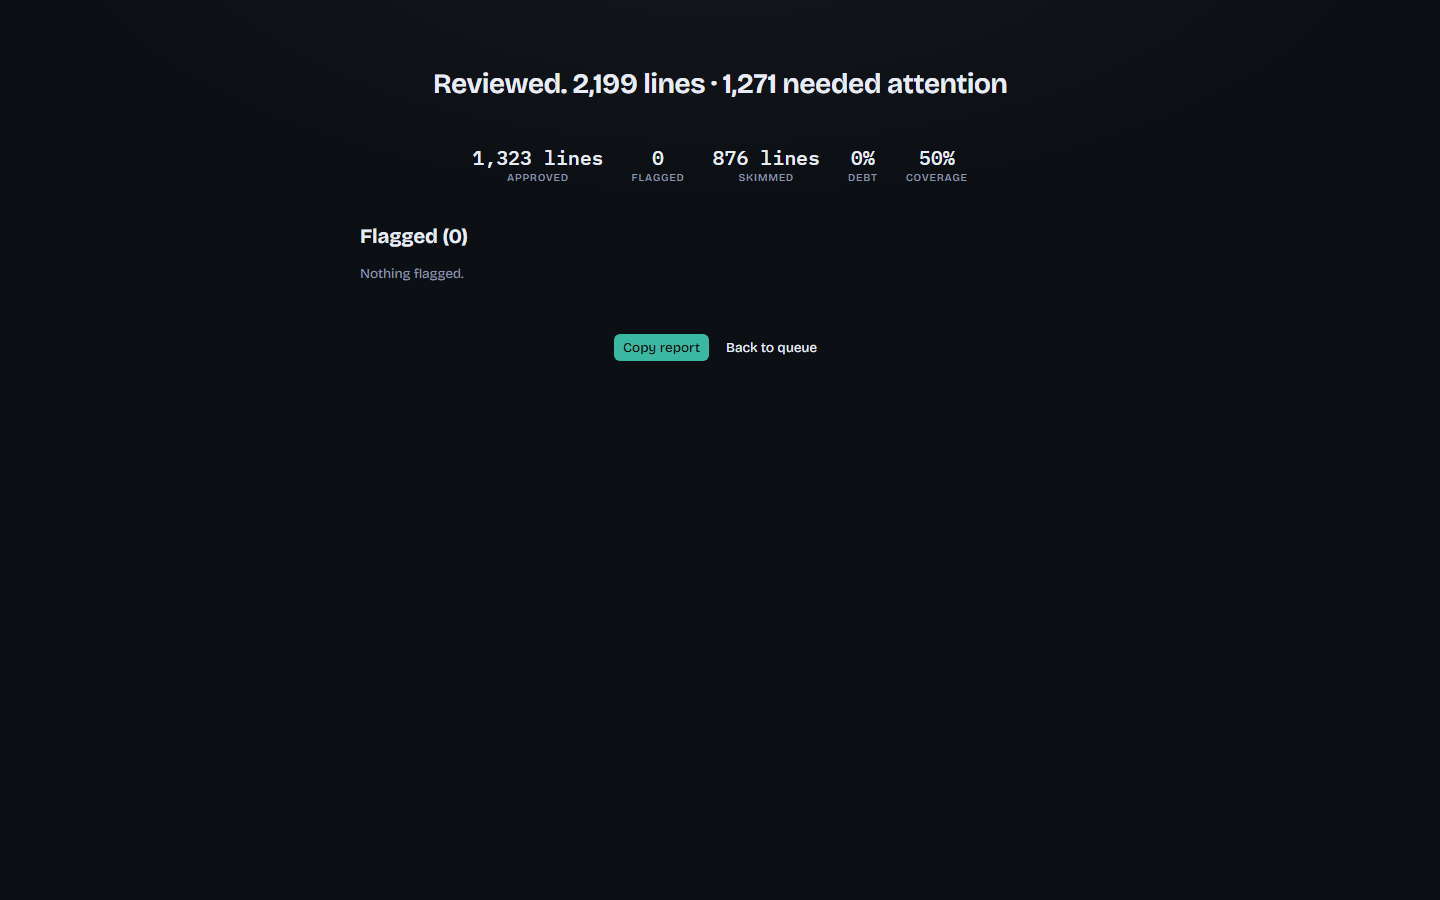
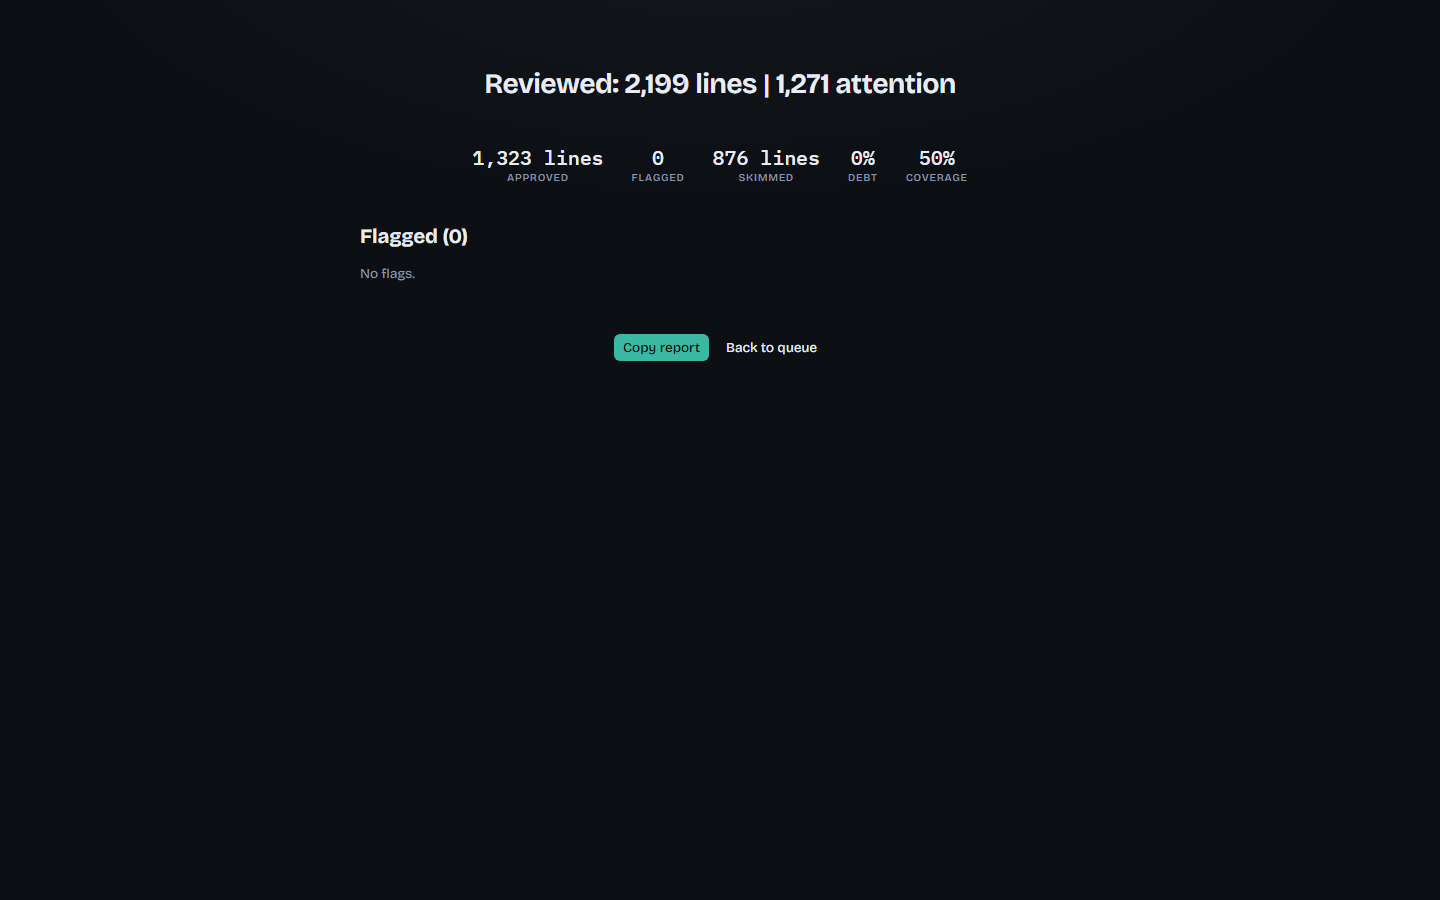
docs: trim product copy

Changed region(s): [[0.2812, 0.0622, 0.6875, 0.1244], [0.25, 0.28, 0.3125, 0.3111]]

diff --git a/packages/web/src/App.tsx b/packages/web/src/App.tsx
@@ -21,6 +21,7 @@ import { sortReviewHunks, useReviewStore, visibleHunks } from "./store.js";
 import type { ApiMeta, ProvenanceTimelineSession, ReviewHunk, ReviewModel } from "./types.js";
 import { highlightDiffLines } from "./highlight.js";
 import { suppressionRuleFor } from "./suppression-rule.js";
+import { FIRST_RUN_OVERLAY_STEPS, HELP_OVERLAY_LINES } from "./copy.js";
 import "./styles.css";
 
 interface CommandAction {
@@ -160,7 +161,7 @@ export function App() {
     setTimelineLoading(true);
     void fetchTimeline()
       .then((sessions) => setTimeline(sessions))
-      .catch(() => setToast("Timeline is unavailable."))
+      .catch(() => setToast("Retry timeline."))
       .finally(() => setTimelineLoading(false));
   }, [setToast, timelineOpen]);
 
@@ -323,8 +324,8 @@ export function App() {
       }
       if (command.type === "open-editor" && selected) {
         void openHunkInEditor(selected.id)
-          .then(() => setToast("Opened in editor."))
-          .catch((error: unknown) => setToast(error instanceof Error ? error.message : "Editor could not be opened."));
+          .then(() => setToast("Opened editor."))
+          .catch(() => setToast("Open failed."));
       }
     };
     window.addEventListener("keydown", onKey);
@@ -362,7 +363,7 @@ export function App() {
         setTimeline(await fetchTimeline());
       }
     } catch {
-      setToast("Server unavailable. Retry with r.");
+      setToast("Retry with r.");
     }
   }
 
@@ -375,7 +376,7 @@ export function App() {
     const previous = hunk.status;
     if (options.record !== false && status !== previous) {
       pushUndoEntry([{ hunkId: hunk.id, prevStatus: previous, prevNote: hunk.note }]);
-      setToast(`${statusVerb(status)} ${repoBasename(hunk.file)} — Z to undo`);
+      setToast(`${statusVerb(status)} \u2014 Z to undo`);
       if (focusMode && status === "approved") {
         showStamp("verified");
       } else if (focusMode && status === "flagged") {
@@ -391,14 +392,14 @@ export function App() {
       await refreshStatsOnly(setData, model, meta, setToast);
     } catch {
       setStatus(hunk.id, previous, hunk.note);
-      setToast("Status update failed. Retry when the server is reachable.");
+      setToast("Retry update.");
     }
   }
 
   async function performUndo(): Promise<void> {
     const result = popUndoEntry();
     if (result.message) {
-      setToast(result.message);
+      setToast("Undo unavailable.");
       return;
     }
     const hunksById = new Map((model?.hunks ?? []).map((hunk) => [hunk.id, hunk]));
@@ -424,11 +425,11 @@ export function App() {
       setGroupPreview(null);
       if (changed.length > 0) {
         pushUndoEntry(changed.map((hunk) => ({ hunkId: hunk.id, prevStatus: hunk.status, prevNote: hunk.note })));
-        setToast(`Approved ${changed.length} ${changed.length === 1 ? "hunk" : "hunks"} — Z to undo`);
+        setToast("Approved \u2014 Z to undo");
       }
       await refresh();
     } catch {
-      setToast("Group approval failed. Retry when the server is reachable.");
+      setToast("Retry approval.");
     }
   }
 
@@ -461,9 +462,9 @@ export function App() {
     try {
       const markdown = await fetchReport();
       await navigator.clipboard.writeText(markdown);
-      setToast("Report copied to clipboard");
+      setToast("Copied report.");
     } catch {
-      setToast("Could not copy the report.");
+      setToast("Copy failed.");
     }
   }
   const coverageSecondary =
@@ -656,7 +657,7 @@ export function App() {
           onOpenFile={(hunk) =>
             void fetchFile(hunk.file, "new")
               .then((text) => setFileModal({ path: hunk.file, text }))
-              .catch(() => setToast("Full file is unavailable."))
+              .catch(() => setToast("Open failed."))
           }
         />
 
@@ -668,14 +669,14 @@ export function App() {
           onToggleNits={toggleNits}
           onOpenEditor={(hunk) =>
             void openHunkInEditor(hunk.id)
-              .then(() => setToast("Opened in editor."))
-              .catch((error: unknown) => setToast(error instanceof Error ? error.message : "Editor could not be opened."))
+              .then(() => setToast("Opened editor."))
+              .catch(() => setToast("Open failed."))
           }
           onCopySuppression={(reason, hunk) =>
             void navigator.clipboard
               .writeText(suppressionRuleFor(reason.code, hunk.file, reason.label))
-              .then(() => setToast("Rule copied â€” paste into .sift/rules.yml"))
-              .catch(() => setToast("Could not copy the suppression rule."))
+              .then(() => setToast("Copied rule - paste into .sift/rules.yml"))
+              .catch(() => setToast("Copy failed."))
           }
           onStatus={(status, note) => selected && void updateStatus(selected, status, note)}
         />
@@ -778,13 +779,13 @@ export function App() {
           onExit={() => setFocusMode(false)}
           onOpenEditor={(hunk) =>
             void openHunkInEditor(hunk.id)
-              .then(() => setToast("Opened in editor."))
-              .catch((error: unknown) => setToast(error instanceof Error ? error.message : "Editor could not be opened."))
+              .then(() => setToast("Opened editor."))
+              .catch(() => setToast("Open failed."))
           }
           onOpenFile={(hunk) =>
             void fetchFile(hunk.file, "new")
               .then((text) => setFileModal({ path: hunk.file, text }))
-              .catch(() => setToast("Full file is unavailable."))
+              .catch(() => setToast("Open failed."))
           }
         />
       )}
@@ -1257,7 +1258,7 @@ function Inspector({
       <section>
         <h2>Reasons</h2>
         {hunk.reasons.length === 0 ? (
-          <p>No signals beyond category base score.</p>
+          <p>No extra signals.</p>
         ) : (
           <>
             {primaryReasons.map((reason) => (
@@ -1284,7 +1285,7 @@ function Inspector({
       </section>
       <section>
         <h2>Coverage</h2>
-        {hunk.coverage ? <CoverageBadge hunk={hunk} /> : <p>No coverage evidence for this hunk.</p>}
+        {hunk.coverage ? <CoverageBadge hunk={hunk} /> : <p>No coverage evidence.</p>}
       </section>
       <section>
         <h2>Provenance</h2>
@@ -1306,7 +1307,7 @@ function Inspector({
             </div>
           </div>
         ) : (
-          <p>No provenance found. Run `sift hooks install` or emit open JSONL records.</p>
+          <p>No provenance. Run `sift hooks install` or emit JSONL.</p>
         )}
       </section>
       {aiAnnotations.length > 0 && (
@@ -1571,17 +1572,14 @@ function HelpOverlay({ tour, onClose }: { tour: boolean; onClose(): void }) {
         <h1>Keys</h1>
         {tour && (
           <div className="tour-strip">
-            <span>Navigate</span>
-            <span>Approve or flag</span>
-            <span>Bulk skim groups</span>
-            <span>Open palette</span>
+            {FIRST_RUN_OVERLAY_STEPS.map((step) => (
+              <span key={step}>{step}</span>
+            ))}
           </div>
         )}
-        <p>j/k next/prev hunk | J/K next/prev file | g g first | G last</p>
-        <p>n/p next/prev unreviewed attention hunk | a approve | x flag | u unreviewed | i note</p>
-        <p>space collapse current hunk | o split | s sort | t timeline | T theme | Ctrl/Cmd+K palette</p>
-        <p>Ctrl/Cmd+F search changes | / filter files</p>
-        <p>/ filter | r refresh | e open editor | [ collapse all | ] expand all | ? help | Esc close</p>
+        {HELP_OVERLAY_LINES.map((line) => (
+          <p key={line}>{line}</p>
+        ))}
       </div>
     </div>
   );
@@ -1701,7 +1699,7 @@ function buildCommandActions({
       if (hunk) {
         selectHunk(hunk.id);
       } else {
-        setToast("No matching hunk.");
+        setToast("Refine search.");
       }
     }
   });
@@ -1868,12 +1866,7 @@ function sourceLabel(source: string): string {
 }
 
 function statusVerb(status: ReviewHunk["status"]): string {
-  return status === "approved" ? "Approved" : status === "flagged" ? "Flagged" : "Unreviewed";
-}
-
-function repoBasename(file: string): string {
-  const parts = file.split("/");
-  return parts[parts.length - 1] || file;
+  return status === "approved" ? "Approved" : status === "flagged" ? "Flagged" : "Reset";
 }
 
 function timeRange(session: ProvenanceTimelineSession): string {
@@ -1902,7 +1895,7 @@ async function loadAll(
     const [model, stats, meta] = await Promise.all([fetchReview(), fetchStats(), fetchMeta()]);
     setData(model, stats, meta);
   } catch {
-    setToast("Server unavailable. Retry with r.");
+    setToast("Retry with r.");
   }
 }
 
@@ -1935,7 +1928,7 @@ async function refreshStatsOnly(
   try {
     setData(model, await fetchStats(), meta);
   } catch {
-    setToast("Stats refresh failed.");
+    setToast("Refresh failed.");
   }
 }
 

diff --git a/scripts/copy-check.ts b/scripts/copy-check.ts
@@ -1,0 +1,25 @@
+import { readFile } from "node:fs/promises";
+import { resolve } from "node:path";
+import { bannedProductWords } from "../packages/cli/src/copy-lint.js";
+
+const productCopyFiles = [
+  "README.md",
+  "CONTRIBUTING.md",
+  "docs/TROUBLESHOOTING.md",
+  "packages/cli/src/index.ts",
+  "packages/cli/src/init.ts",
+  "packages/web/src/App.tsx",
+  "packages/web/src/copy.ts",
+  "packages/web/src/panels.tsx"
+];
+
+const violations = await Promise.all(
+  productCopyFiles.map(async (file) => ({ file, words: bannedProductWords(await readFile(resolve(file), "utf8")) }))
+);
+const failures = violations.filter((violation) => violation.words.length > 0);
+
+if (failures.length > 0) {
+  throw new Error(`Banned product copy: ${failures.map(({ file, words }) => `${file} (${words.join(", ")})`).join(", ")}`);
+}
+
+console.log("Product copy check passed.");

diff --git a/packages/web/src/copy.ts b/packages/web/src/copy.ts
@@ -1,0 +1,14 @@
+export const FIRST_RUN_OVERLAY_STEPS = ["Move", "Decide", "Skim groups", "Palette"] as const;
+
+export const HELP_OVERLAY_LINES = [
+  "j/k hunk | J/K file",
+  "n/p attention | a/x decide",
+  "u reset | i note",
+  "space collapse | o split",
+  "/ filter | r refresh",
+  "? help | Esc close"
+] as const;
+
+export function copyWordCount(lines: readonly string[]): number {
+  return lines.join(" ").match(/[A-Za-z0-9/]+/gu)?.length ?? 0;
+}

diff --git a/packages/cli/src/copy-lint.test.ts b/packages/cli/src/copy-lint.test.ts
@@ -1,0 +1,12 @@
+import { describe, expect, it } from "vitest";
+import { bannedProductWords } from "./copy-lint.js";
+
+describe("product copy lint", () => {
+  it("finds the banned product words case-insensitively", () => {
+    expect(bannedProductWords("A Powerful, seamless review.")).toEqual(["powerful", "seamless"]);
+  });
+
+  it("allows plain product copy", () => {
+    expect(bannedProductWords("Review local changes.")).toEqual([]);
+  });
+});

diff --git a/packages/web/src/copy.test.ts b/packages/web/src/copy.test.ts
@@ -1,0 +1,11 @@
+import { describe, expect, it } from "vitest";
+import { copyWordCount, FIRST_RUN_OVERLAY_STEPS, HELP_OVERLAY_LINES } from "./copy.js";
+
+describe("first-run overlay copy", () => {
+  it("keeps each step short and the full overlay brief", () => {
+    for (const step of FIRST_RUN_OVERLAY_STEPS) {
+      expect(copyWordCount([step])).toBeLessThanOrEqual(6);
+    }
+    expect(copyWordCount(["Keys", ...FIRST_RUN_OVERLAY_STEPS, ...HELP_OVERLAY_LINES])).toBeLessThanOrEqual(40);
+  });
+});

diff --git a/packages/cli/src/init.ts b/packages/cli/src/init.ts
@@ -69,10 +69,10 @@ export async function runInit(cwd = process.cwd()): Promise<string[]> {
 
 export function initQuickstart(): string {
   return [
-    "Quickstart:",
-    "  sift            # web cockpit",
-    "  sift tui         # terminal cockpit",
-    "  sift --watch     # live refresh",
-    "  ?                # help inside web/TUI"
+    "Sift files are ready.",
+    "  sift          # review",
+    "  sift tui      # terminal",
+    "  sift --watch  # live",
+    "  ?             # keys"
   ].join("\n");
 }

diff --git a/packages/cli/src/init.test.ts b/packages/cli/src/init.test.ts
@@ -33,6 +33,12 @@ describe("sift init", () => {
     expect(rules).toContain("BAN_LEGACY_AUTH");
     const second = await runInit(root);
     expect(second.every((line) => line.startsWith("exists"))).toBe(true);
-    expect(initQuickstart()).toContain("sift tui");
+    expect(initQuickstart().split("\n")).toEqual([
+      "Sift files are ready.",
+      "  sift          # review",
+      "  sift tui      # terminal",
+      "  sift --watch  # live",
+      "  ?             # keys"
+    ]);
   });
 });

diff --git a/scripts/shots.ts b/scripts/shots.ts
@@ -10,6 +10,7 @@ const demoRepo = path.join(demoRoot, "repo");
 const shotsDir = path.join(root, "docs", "screenshots");
 const cli = path.join(root, "packages", "cli", "dist", "index.js");
 const pnpm = process.platform === "win32" ? "pnpm.cmd" : "pnpm";
+const copyOnly = process.argv.includes("--copy");
 const demoEnv = {
   ...process.env,
   SIFT_HOME: path.join(demoRoot, "home", ".sift"),
@@ -37,10 +38,14 @@ try {
     await page.goto(url, { waitUntil: "domcontentloaded" });
     await page.locator(".shell").waitFor({ state: "visible" });
     const helpClose = page.locator(".help button");
+    if (copyOnly && (await helpClose.count())) {
+      await page.screenshot({ path: path.join(shotsDir, "overlay.png") });
+    }
     if (await helpClose.count()) {
       await helpClose.click();
     }
     await page.waitForTimeout(400);
+    if (!copyOnly) {
     // Allow lazy Shiki themes to paint before capture.
     await page.waitForFunction(() => document.querySelectorAll(".diff-body code span").length > 0, null, {
       timeout: 5000
@@ -103,6 +108,7 @@ try {
     await page.locator(".timeline-empty, .timeline-session").waitFor({ state: "visible" });
     await page.screenshot({ path: path.join(shotsDir, "timeline.png") });
     await page.locator(".timeline-panel").getByRole("button", { name: "Close", exact: true }).click();
+    }
 
     const model = (await fetch(`${url}/api/review`).then((response) => response.json())) as {
       groups: Array<{ kind: string; hunkIds: string[] }>;

diff --git a/packages/cli/src/copy-lint.ts b/packages/cli/src/copy-lint.ts
@@ -1,0 +1,5 @@
+export const BANNED_PRODUCT_WORDS = ["simply", "powerful", "seamless", "blazing", "easily"] as const;
+
+export function bannedProductWords(text: string): string[] {
+  return BANNED_PRODUCT_WORDS.filter((word) => new RegExp(`\\b${word}\\b`, "iu").test(text));
+}

diff --git a/packages/web/src/panels.tsx b/packages/web/src/panels.tsx
@@ -180,8 +180,7 @@ export function CompletionScreen({
   return (
     <section className="completion" aria-label="Review complete">
       <h1 className="completion-headline">
-        Reviewed. {model.totals.changedLines.toLocaleString()} lines ·{" "}
-        {model.totals.attentionLines.toLocaleString()} needed attention
+        Reviewed: {model.totals.changedLines.toLocaleString()} lines | {model.totals.attentionLines.toLocaleString()} attention
       </h1>
       <div className="completion-stats">
         <Stat label="Approved" value={`${approvedLines.toLocaleString()} lines`} />
@@ -195,7 +194,7 @@ export function CompletionScreen({
       <div className="completion-flagged">
         <h2>Flagged ({flagged.length})</h2>
         {flagged.length === 0 ? (
-          <p>Nothing flagged.</p>
+          <p>No flags.</p>
         ) : (
           <ul>
             {flagged.map((hunk) => (

diff --git a/packages/web/src/panels.test.tsx b/packages/web/src/panels.test.tsx
@@ -84,7 +84,7 @@ describe("CompletionScreen", () => {
     const html = renderToStaticMarkup(
       <CompletionScreen model={model} stats={stats} onCopyReport={() => undefined} onBackToQueue={() => undefined} />
     );
-    expect(html).toContain("Reviewed.");
+    expect(html).toContain("Reviewed:");
     expect(html).toContain("2,314 lines");
     expect(html).toContain("login()");
     expect(html).toContain("Needs tests");

diff --git a/docs/TROUBLESHOOTING.md b/docs/TROUBLESHOOTING.md
@@ -1,5 +1,7 @@
 # Troubleshooting
 
+Start with the shortest fix below. Sift stays local; retry after the change.
+
 ## “Not a git repository”
 
 Run Sift from a checkout, or change into one first: